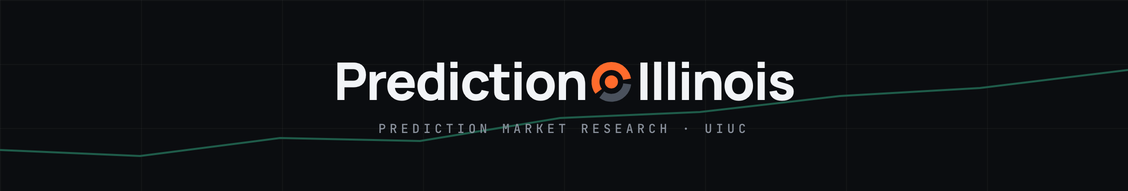
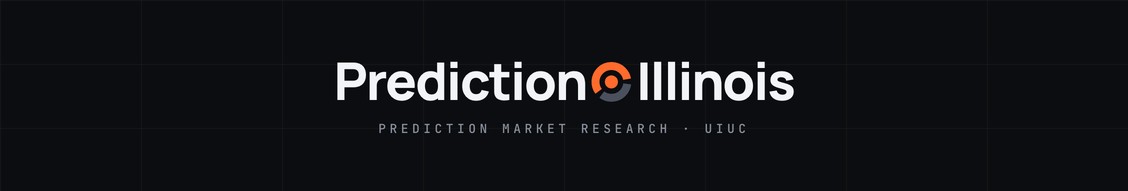
Brand: drop the green line from the LinkedIn cover and share image

diff --git a/brand/src/build.py b/brand/src/build.py
@@ -124,10 +124,8 @@ def main():
 
     chips = "".join(f'<span style="border:1px solid #2A2F37;border-radius:999px;padding:12px 18px;background:#11141A">{m}</span>'
                     for m in ("Elections", "Sports", "Crypto", "Economics", "Tech", "Weather"))
-    line = "0,520 150,528 300,500 450,505 600,470 750,461 900,420 1050,400 1200,370"
     chrome(HEAD + f"""<div style="position:relative;width:1200px;height:630px;background:{INK};color:{WHITE};overflow:hidden">
 <div class="grid" style="background-size:150px 126px"></div>
-<svg style="position:absolute;inset:0" width="1200" height="630"><polyline points="{line}" fill="none" stroke="#1F5C4A" stroke-width="2.5"/></svg>
 <div style="position:absolute;left:80px;top:76px;display:flex;align-items:baseline;gap:14px">
 <div class="wm" style="font-size:34px">Prediction{inline_ring(ORANGE, REST_DARK)}Illinois</div><div class="mono" style="font-size:15px;letter-spacing:.2em;color:#8A919C">· UIUC</div></div>
 <div class="wm" style="position:absolute;left:80px;top:250px;font-size:82px;letter-spacing:-.035em;line-height:1.02">Prediction markets,<br><span style="color:#8A919C">traded on research.</span></div>
@@ -136,10 +134,8 @@ def main():
 <div class="mono" style="position:absolute;right:80px;bottom:72px;font-size:14px;letter-spacing:.04em;color:#8A919C;text-transform:none">prediction-illinois.github.io</div></div>""",
            "og-image-1200x630.png", 1200, 630)
 
-    cover_line = "0,150 140,156 280,138 420,141 560,118 700,112 840,96 980,88 1128,70"
     chrome(HEAD + f"""<div style="position:relative;width:1128px;height:191px;background:{INK};color:{WHITE};overflow:hidden">
 <div class="grid" style="background-size:141px 64px"></div>
-<svg style="position:absolute;inset:0" width="1128" height="191"><polyline points="{cover_line}" fill="none" stroke="#1F5C4A" stroke-width="2"/></svg>
 <div style="position:absolute;inset:0;display:flex;flex-direction:column;align-items:center;justify-content:center;gap:14px">
 <div class="wm" style="font-size:52px">Prediction{inline_ring(ORANGE, REST_DARK)}Illinois</div>
 <div class="mono" style="font-size:12.5px;letter-spacing:.3em;color:#8A919C">Prediction market research · UIUC</div></div></div>""",
